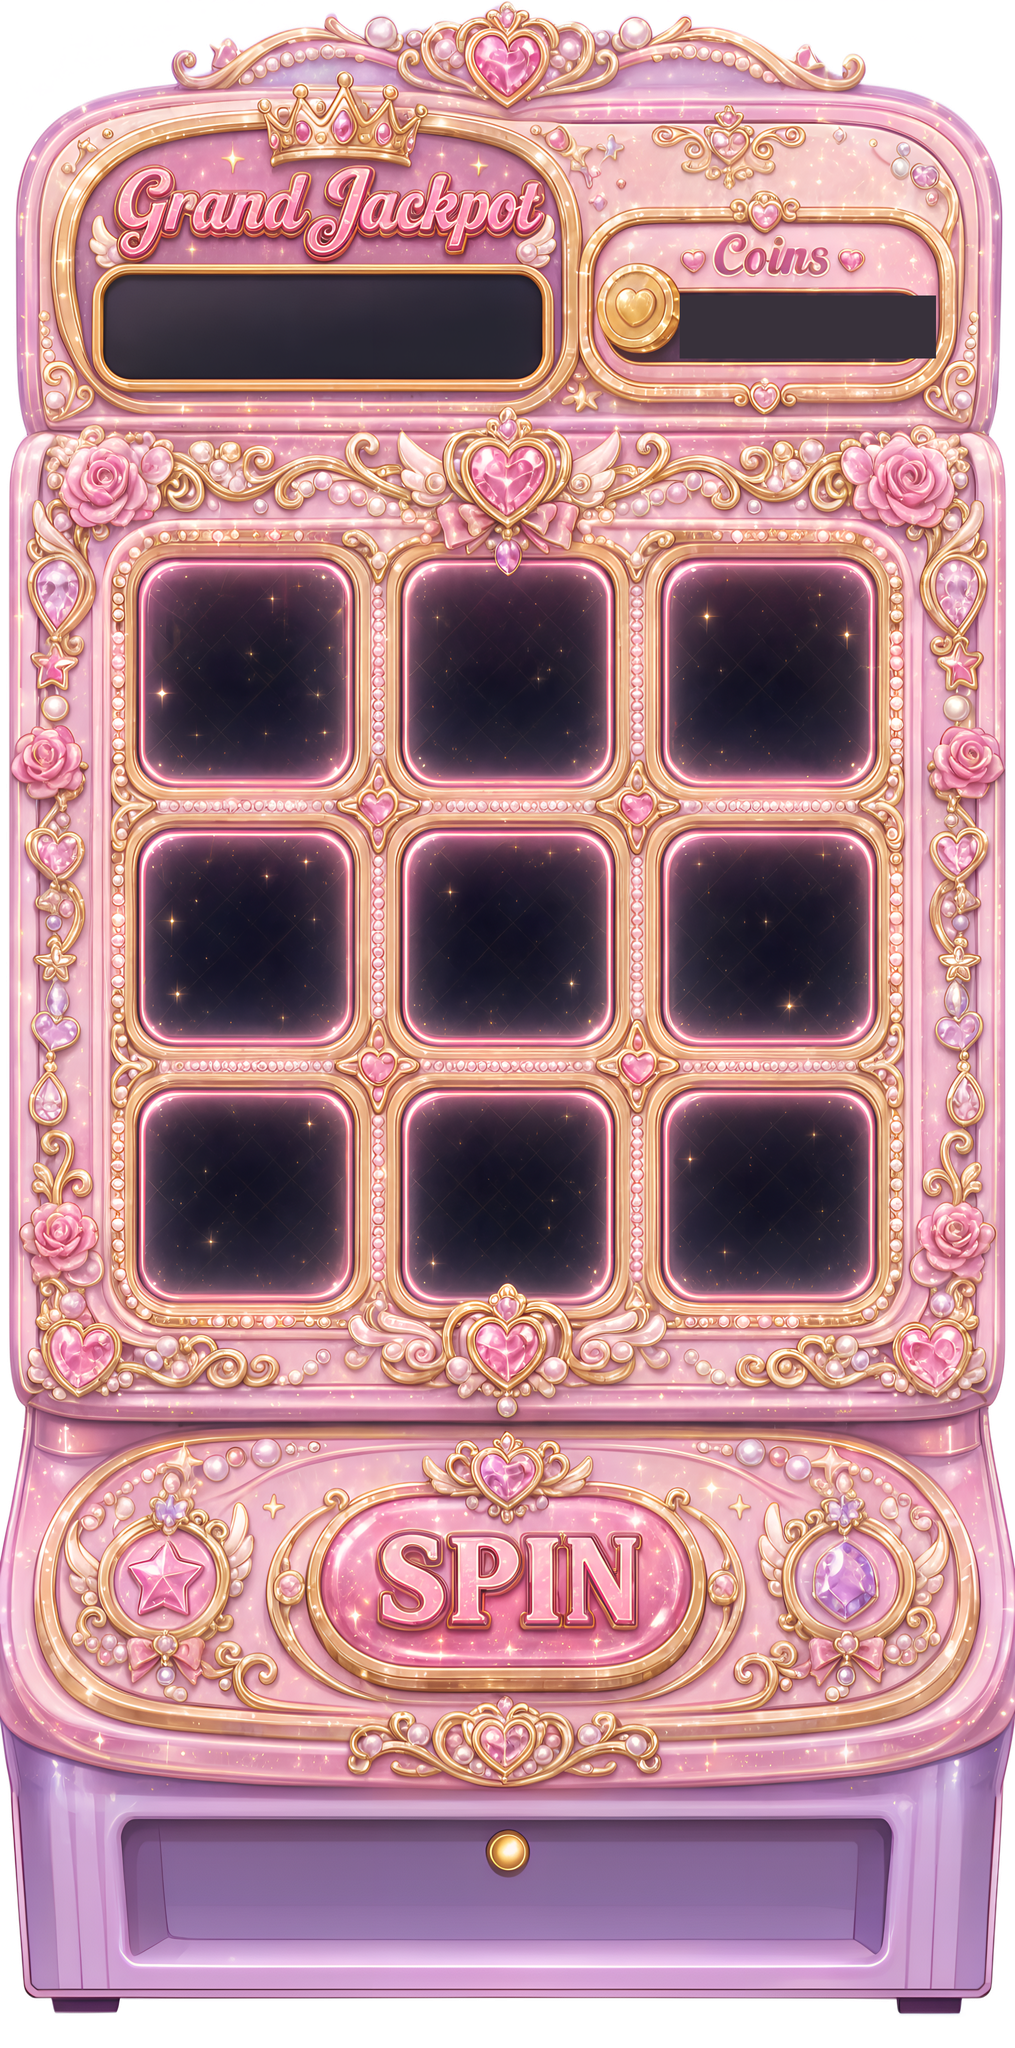
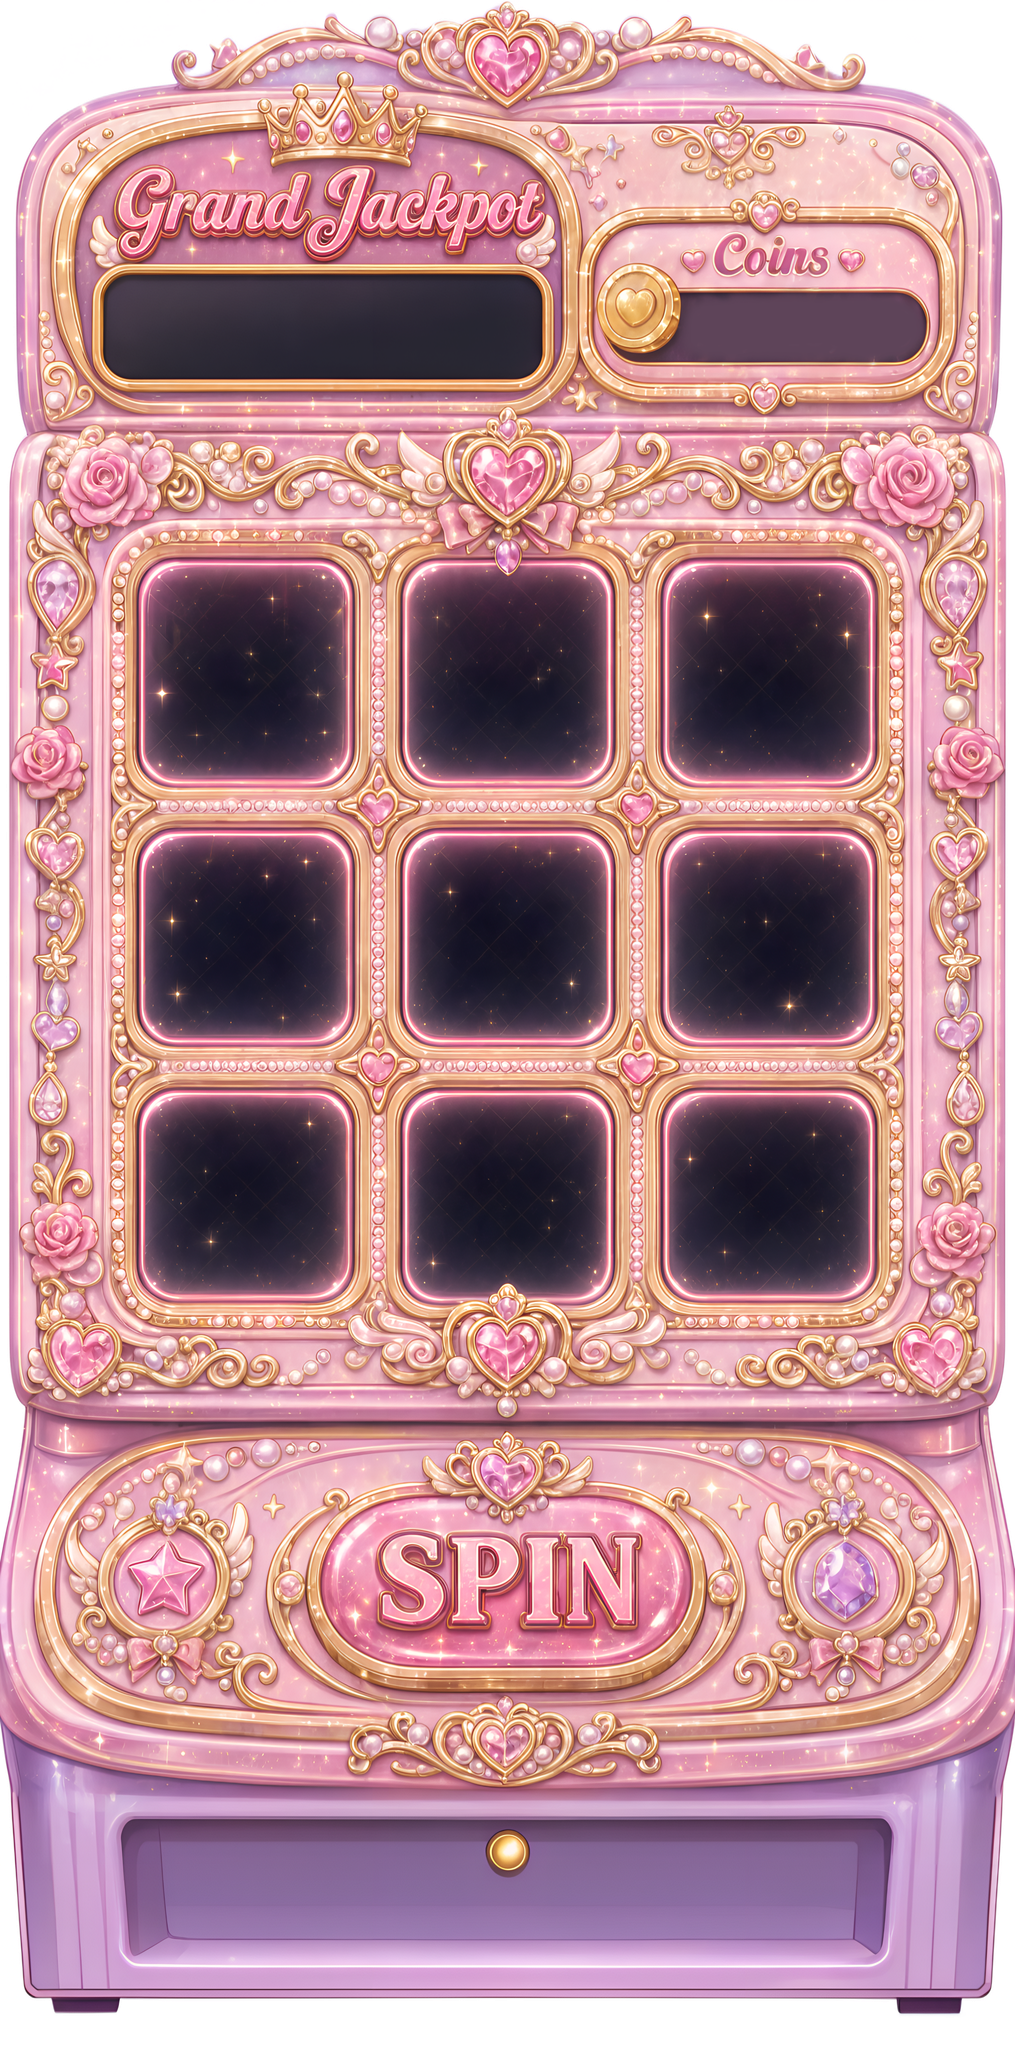
Use Krita-fixed slot cabinet (clean coins display)
Replace the inpainted cabinet with the user's hand-fixed Krita export
('final slot machine.png') — both the Grand Jackpot and Coins displays
are clean dark screens. Same composition/aspect, so reel geometry is
unchanged. Cache-bust v6.

Changed region(s): [[0.6719, 0.125, 0.9468, 0.1875]]

diff --git a/src/components/SlotMachine.jsx b/src/components/SlotMachine.jsx
@@ -186,7 +186,7 @@ export default function SlotMachine({ session, onComplete, jackpotPool = 0 }) {
         animation: shaking ? 'slot-shake 0.38s ease-out' : 'none',
         filter: 'drop-shadow(0 12px 28px rgba(196,75,106,0.32))',
       }}>
-        <img src="/ui/slot_cabinet.png?v=5" alt="" draggable={false}
+        <img src="/ui/slot_cabinet.png?v=6" alt="" draggable={false}
           style={{ position: 'absolute', inset: 0, width: '100%', height: '100%', pointerEvents: 'none', userSelect: 'none' }} />
 
         {/* Progressive jackpot pool → the "Grand Jackpot" display */}